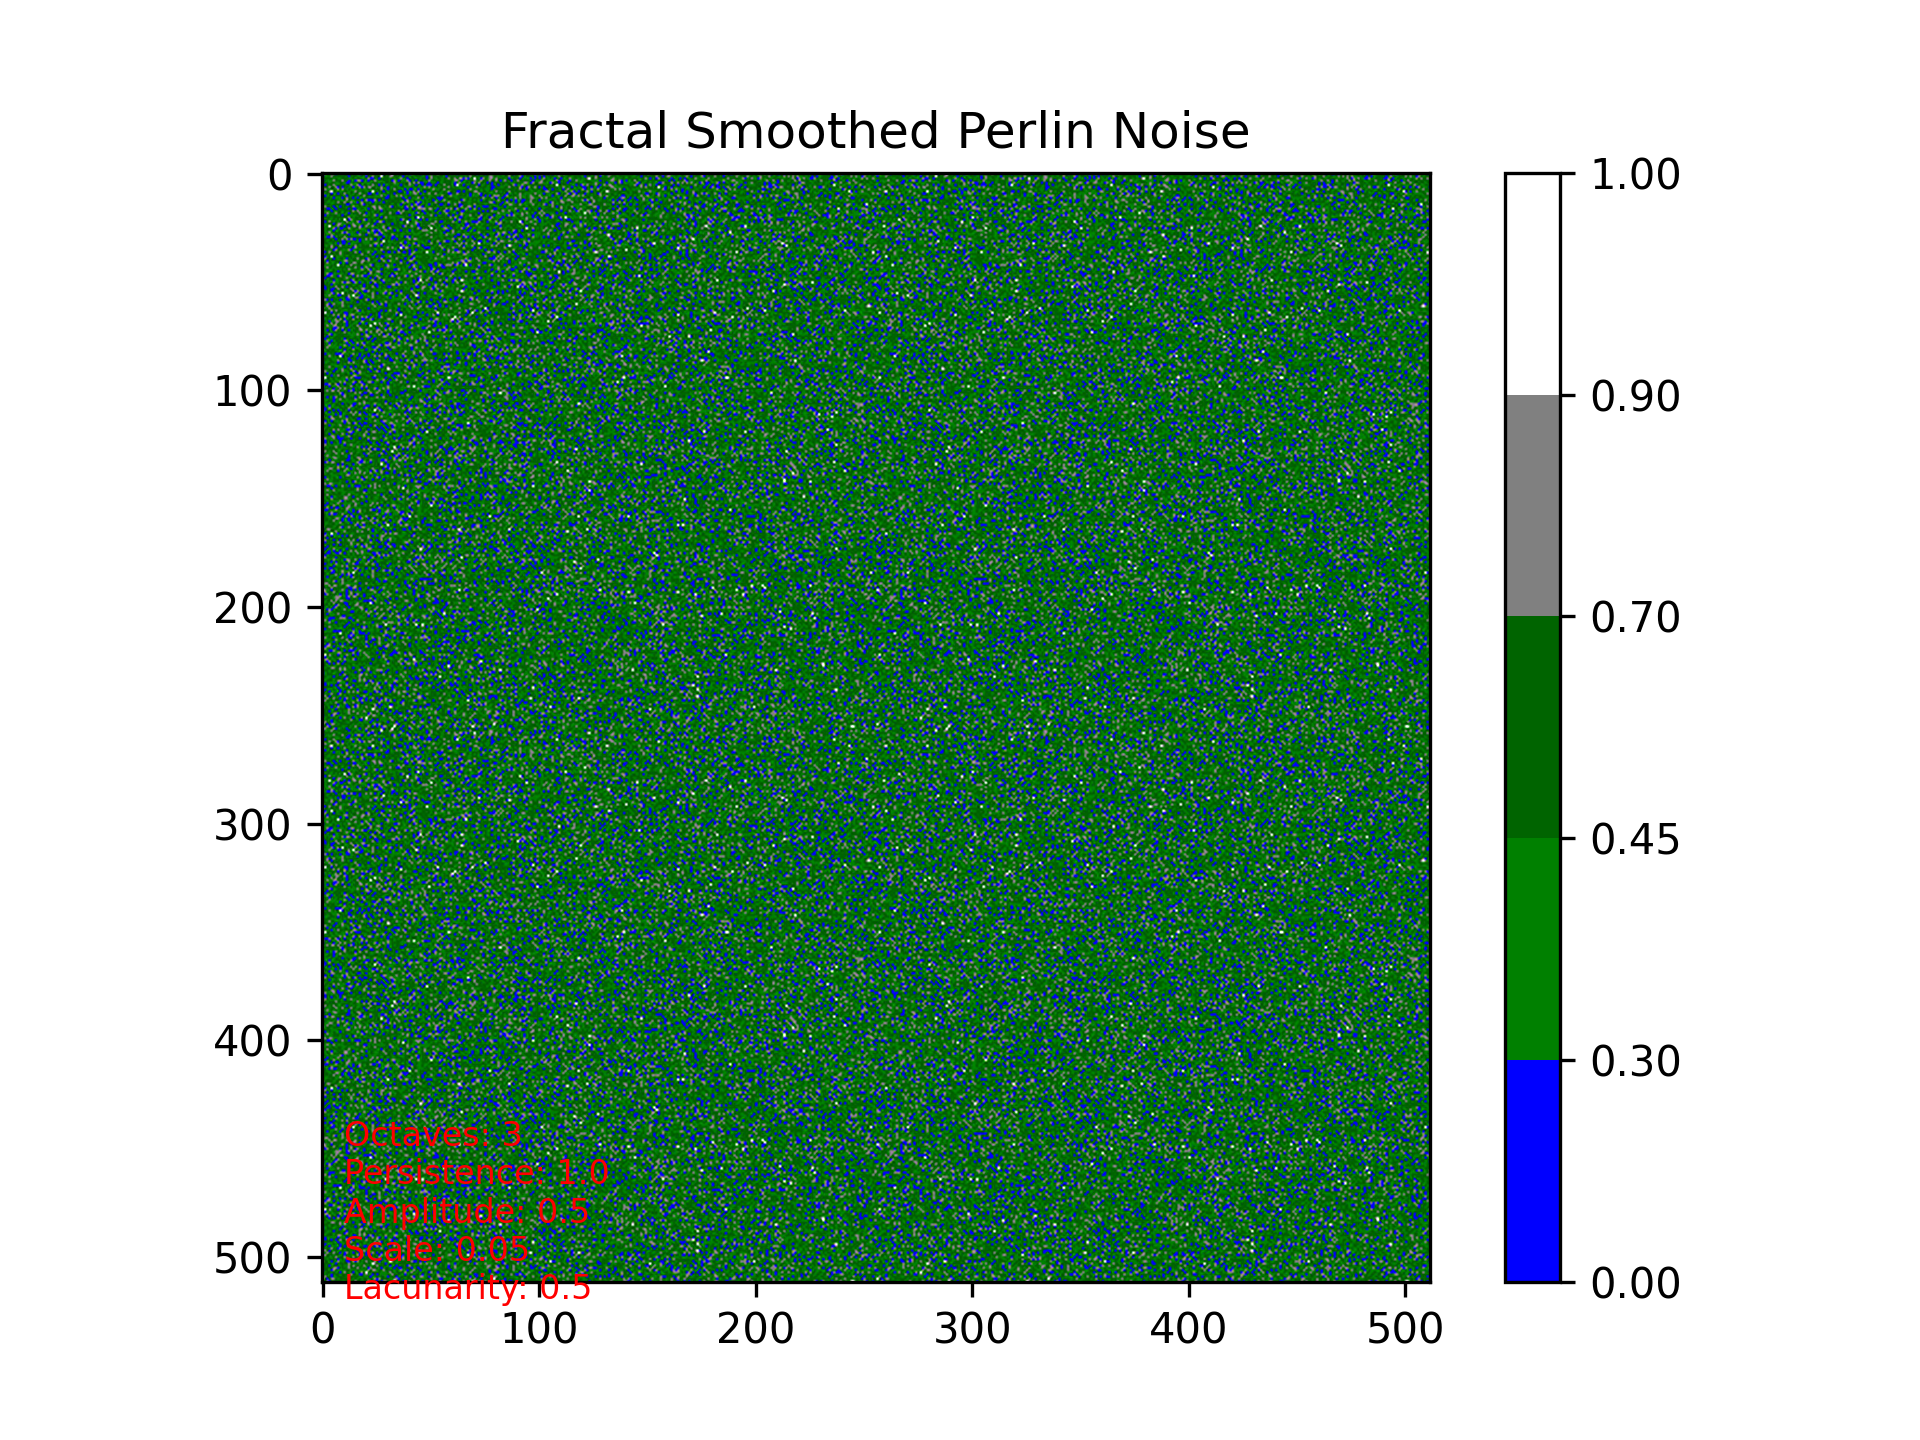
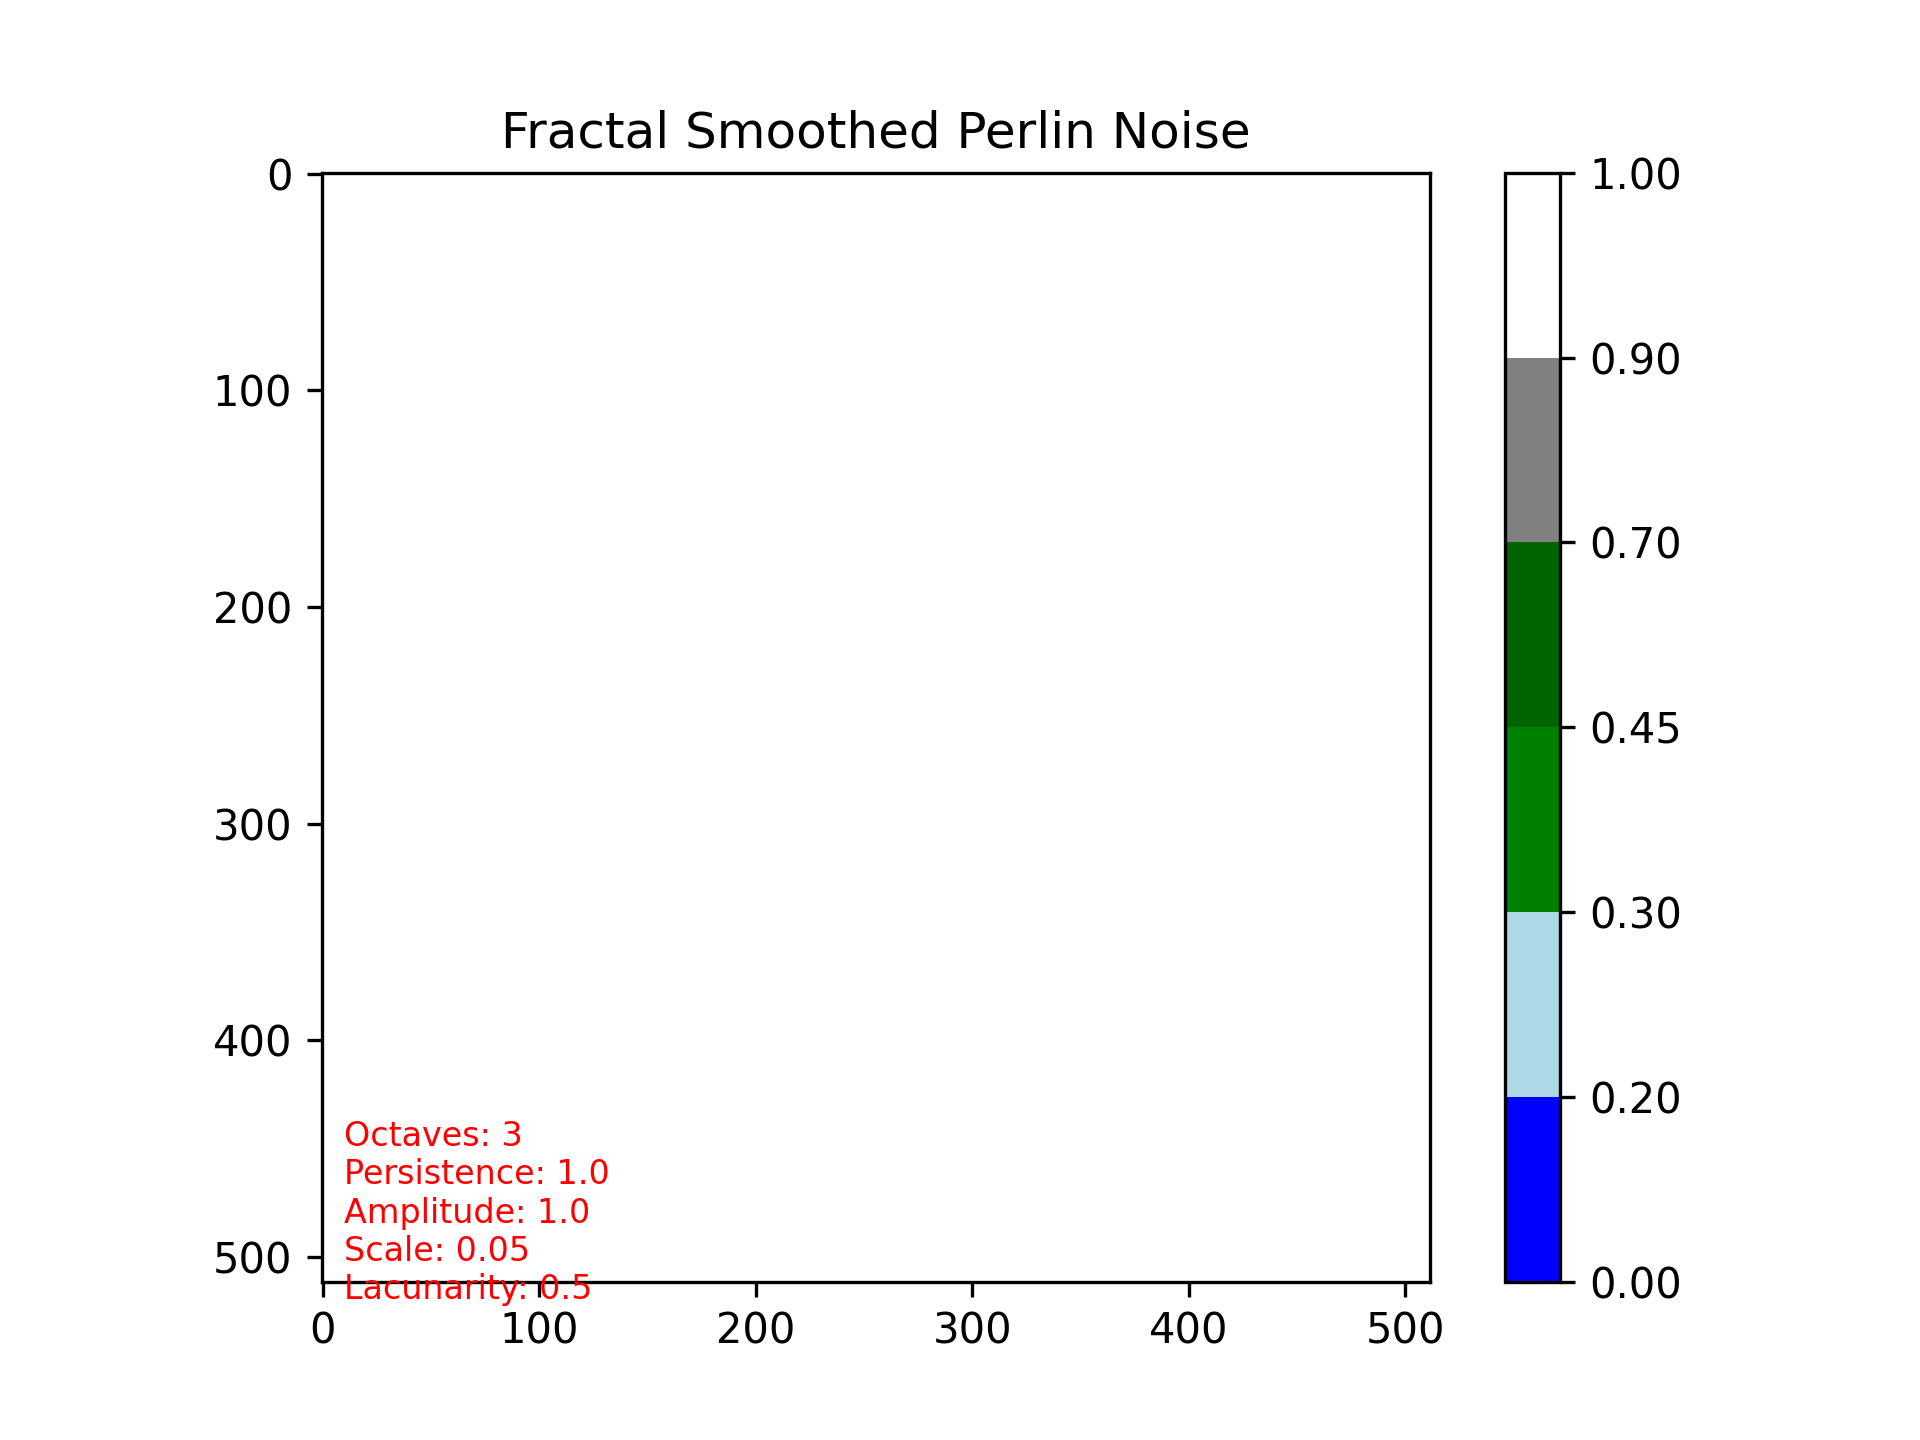
Changed color profile of terrain

diff --git a/perlin_noise.py b/perlin_noise.py
@@ -526,9 +526,9 @@ if __name__ == "__main__":
 
 
     # Hyperparameters to dictate the land type colors and boundaries
-    water_level = 0.30                                     # Water level for fractal Perlin noise generation
-    land_type_boundaries = [0, water_level, 0.45, 0.70, 0.90, 1]  # Boundaries for different land types
-    land_type_colors = ['blue', 'green', 'darkgreen','grey', 'white']  # Colors for different land types 
+    water_level = 0.30                                                      # Water level for fractal Perlin noise generation
+    land_type_boundaries = [0, 0.20, water_level, 0.45, 0.70, 0.90, 1]      # Boundaries for different land types
+    land_type_colors = ['blue', "lightblue", 'darkgreen', 'green','grey', 'white']  # Colors for different land types 
 
 
     # run_perlin_noise( size = grid_size, \
@@ -543,54 +543,54 @@ if __name__ == "__main__":
 
 
 
-    # run_perlin_noise_fractal( size=grid_size, \
-    #                         octaves=10, \
-    #                         persistence=.01, \
-    #                         amplitude=1.75, \
-    #                         scale= 100, \
-    #                         lacunarity=10, \
-    #                         colors=land_type_colors, \
-    #                         bounds=land_type_boundaries, \
-    #                         offset_x=random.random() * 100, \
-    #                         offset_y=random.random() * 100, \
-    #                         show_plots=False)  # Run the fractal Perlin noise generation and plotting
+    run_perlin_noise_fractal( size=grid_size, \
+                            octaves=10, \
+                            persistence=.01, \
+                            amplitude=1.75, \
+                            scale= 100, \
+                            lacunarity=10, \
+                            colors=land_type_colors, \
+                            bounds=land_type_boundaries, \
+                            offset_x=random.random() * 100, \
+                            offset_y=random.random() * 100, \
+                            show_plots=False)  # Run the fractal Perlin noise generation and plotting
 
 
 
     # Run fractal Perlin noise with various combinations of parameters
-    octave_values = [3, 7, 10]
-    persistence_values = [1.0]
-    amplitude_values = [1.0]
-    scale_values = [0.05, 0.01, 0.005]
-    lacunarity_values = [0.5, 1.0, 2.0]
+    # octave_values = [3, 7, 10]
+    # persistence_values = [1.0]
+    # amplitude_values = [1.0]
+    # scale_values = [0.05, 0.01, 0.005]
+    # lacunarity_values = [0.5, 1.0, 2.0]
 
-    total_iterations = len(octave_values) * len(persistence_values) * len(amplitude_values) * len(scale_values) * len(lacunarity_values)
-    current_iteration = 0
+    # total_iterations = len(octave_values) * len(persistence_values) * len(amplitude_values) * len(scale_values) * len(lacunarity_values)
+    # current_iteration = 0
 
-    for scale in scale_values:
-        for persistence in persistence_values:
-            for amplitude in amplitude_values:
-                for octaves in octave_values:
-                    for lacunarity in lacunarity_values:
-                        current_iteration += 1
-                        print(f"Iteration {current_iteration} of {total_iterations} - Progress: {(current_iteration / total_iterations) * 100:.2f}% complete")
-                        print(f"Running fractal Perlin noise with octaves={octaves}, persistence={persistence}, amplitude={amplitude}, scale={scale}, lacunarity={lacunarity}")
-                        run_perlin_noise_fractal(
-                            size=grid_size,
-                            octaves=octaves,
-                            persistence=persistence,
-                            amplitude=amplitude,
-                            scale=scale,
-                            lacunarity=lacunarity,
-                            colors=land_type_colors,
-                            bounds=land_type_boundaries,
-                            show_plots=False,
-                            # offset_x=random.random() * 100,
-                            # offset_y=random.random() * 100,
-                            iterNum=current_iteration
-                        )
+    # for scale in scale_values:
+    #     for persistence in persistence_values:
+    #         for amplitude in amplitude_values:
+    #             for octaves in octave_values:
+    #                 for lacunarity in lacunarity_values:
+    #                     current_iteration += 1
+    #                     print(f"Iteration {current_iteration} of {total_iterations} - Progress: {(current_iteration / total_iterations) * 100:.2f}% complete")
+    #                     print(f"Running fractal Perlin noise with octaves={octaves}, persistence={persistence}, amplitude={amplitude}, scale={scale}, lacunarity={lacunarity}")
+    #                     run_perlin_noise_fractal(
+    #                         size=grid_size,
+    #                         octaves=octaves,
+    #                         persistence=persistence,
+    #                         amplitude=amplitude,
+    #                         scale=scale,
+    #                         lacunarity=lacunarity,
+    #                         colors=land_type_colors,
+    #                         bounds=land_type_boundaries,
+    #                         show_plots=False,
+    #                         # offset_x=random.random() * 100,
+    #                         # offset_y=random.random() * 100,
+    #                         iterNum=current_iteration
+    #                     )
 
-    end_time = time.time()  # End timing
-    total_time = end_time - start_time
-    minutes, seconds = divmod(total_time, 60)
-    print(f"Total time taken: {int(minutes)} minutes and {seconds:.2f} seconds\n\n")
+    # end_time = time.time()  # End timing
+    # total_time = end_time - start_time
+    # minutes, seconds = divmod(total_time, 60)
+    # print(f"Total time taken: {int(minutes)} minutes and {seconds:.2f} seconds\n\n")
